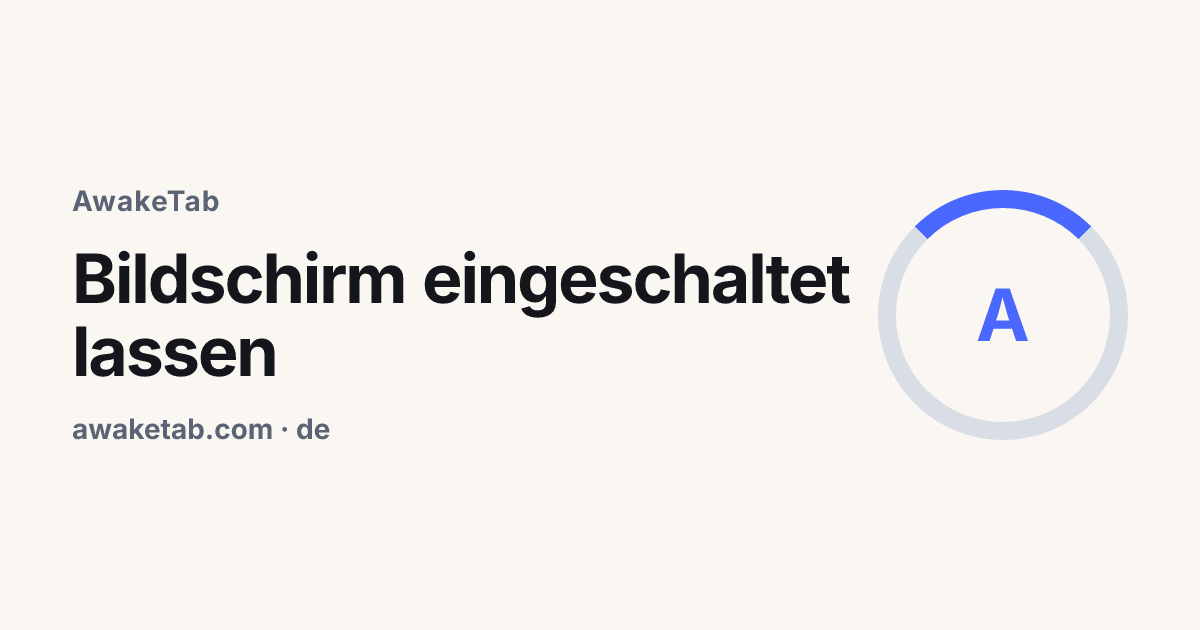
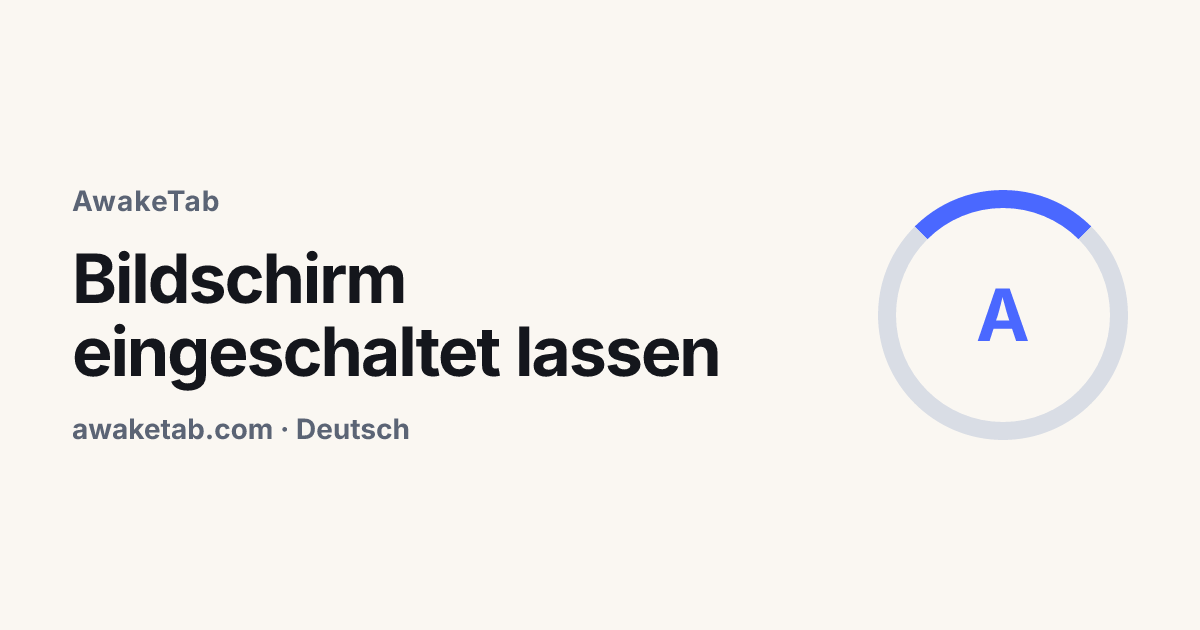
feat(web): localized OG images and BCP 47 inLanguage
scripts/og.mts renders one 1200x630 image per translated page at
/og/{lang}/{collection}/{translated slug}.png (ogTitle ?? h1, language name in
the footer) with Noto Sans JP/SC/Devanagari read from node_modules at build
time only. Titles wrap balanced and step down in size when long; locale
home images show the language name. JSON-LD inLanguage now uses the BCP 47
tag (pt-BR, zh-Hans) and Article carries its image. Manifests were already
localized per locale (scripts/manifests.mjs); now asserted by the SEO suite.

Changed region(s): [[0.0617, 0.3921, 0.7092, 0.6333], [0.2467, 0.6635, 0.3392, 0.6937]]

diff --git a/apps/web/src/lib/seo.ts b/apps/web/src/lib/seo.ts
@@ -1,4 +1,4 @@
-import type { TLocale } from '../i18n/locales';
+import { LOCALE_META, type TLocale } from '../i18n/locales';
 
 export type TSchemaNode = Record<string, unknown>;
 
@@ -14,6 +14,8 @@ export interface IArticleSchemaInput {
   locale: TLocale;
   published: string;
   updated?: string;
+  /** Absolute OG image URL (docs/06 §7.2). */
+  image?: string;
   breadcrumbs: Array<{ name: string; url: string }>;
 }
 
@@ -29,7 +31,7 @@ export function homeSchema(locale: TLocale, ratings: IRatingsSummary): TSchemaNo
     operatingSystem: 'Any',
     browserRequirements: 'Requires a browser with Screen Wake Lock API support or the video fallback',
     offers: { '@type': 'Offer', price: '0', priceCurrency: 'USD' },
-    inLanguage: locale,
+    inLanguage: LOCALE_META[locale].hreflang,
   };
   if (ratings.count >= 25) {
     application.aggregateRating = {
@@ -63,7 +65,7 @@ export function homeSchema(locale: TLocale, ratings: IRatingsSummary): TSchemaNo
         name: 'AwakeTab',
         url: `${SITE}/`,
         publisher: { '@id': `${SITE}/#org` },
-        inLanguage: locale,
+        inLanguage: LOCALE_META[locale].hreflang,
       },
       application,
     ],
@@ -78,10 +80,11 @@ export function articleSchema(input: IArticleSchemaInput): TSchemaNode {
     url: input.canonical,
     datePublished: input.published,
     dateModified: input.updated ?? input.published,
-    inLanguage: input.locale,
+    inLanguage: LOCALE_META[input.locale].hreflang,
     author: { '@id': `${SITE}/about#person` },
     publisher: { '@id': `${SITE}/#org` },
   };
+  if (input.image) article.image = input.image;
   return {
     '@context': 'https://schema.org',
     '@graph': [

diff --git a/apps/web/src/lib/og.ts b/apps/web/src/lib/og.ts
@@ -11,7 +11,20 @@ export interface IOgInput {
   title: string;
   eyebrow: string;
   locale: string;
+  /** Bottom line; defaults to `awaketab.com · {locale}`. Locale pages pass the language's own name. */
+  footer?: string;
   fonts: IOgFont[];
+}
+
+const FULL_WIDTH = /[\u1100-\u115F\u2E80-\uA4CF\uAC00-\uD7A3\uF900-\uFAFF\uFE30-\uFE4F\uFF00-\uFF60\uFFE0-\uFFE6]/u;
+
+/** Display width with full-width (CJK) characters counted twice, so long titles step down in size. */
+export function titleFontSize(title: string): number {
+  let width = 0;
+  for (const char of title) width += FULL_WIDTH.test(char) ? 2 : 1;
+  if (width <= 36) return 68;
+  if (width <= 56) return 58;
+  return 50;
 }
 
 export async function renderOgPng(input: IOgInput): Promise<Uint8Array> {
@@ -45,13 +58,13 @@ export async function renderOgPng(input: IOgInput): Promise<Uint8Array> {
               {
                 type: 'div',
                 props: {
-                  style: { fontSize: '68px', fontWeight: 700, lineHeight: 1.08, letterSpacing: '-0.03em' },
+                  style: { fontSize: `${String(titleFontSize(input.title))}px`, fontWeight: 700, lineHeight: 1.08, letterSpacing: '-0.03em', textWrap: 'balance' },
                   children: input.title,
                 },
               },
               {
                 type: 'div',
-                props: { style: { color: '#5B6475', fontSize: '28px' }, children: `awaketab.com · ${input.locale}` },
+                props: { style: { color: '#5B6475', fontSize: '28px' }, children: input.footer ?? `awaketab.com · ${input.locale}` },
               },
             ],
           },
